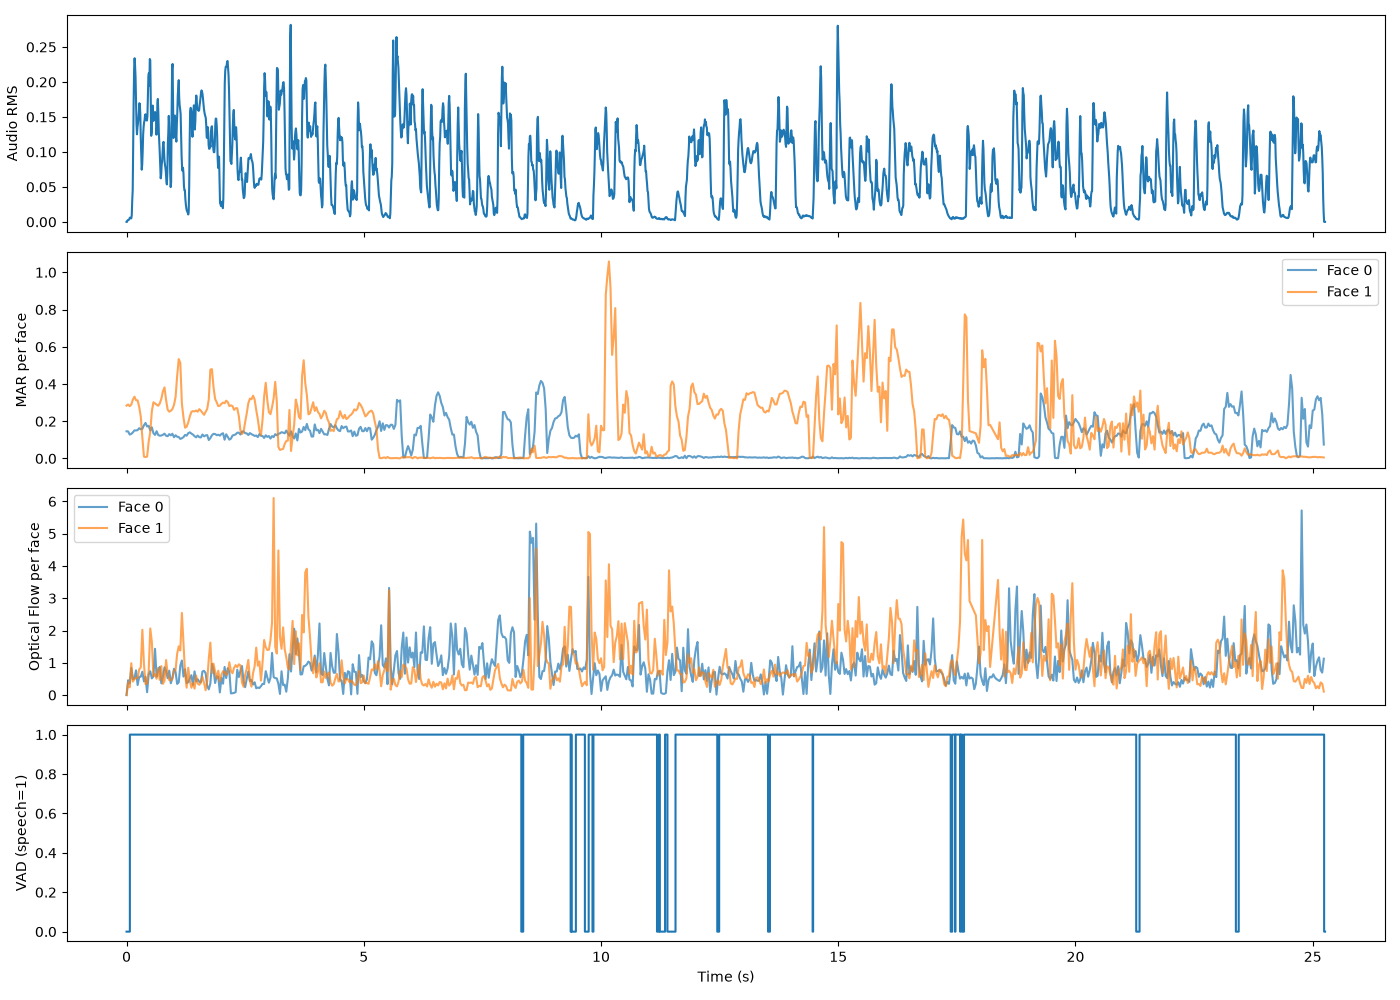
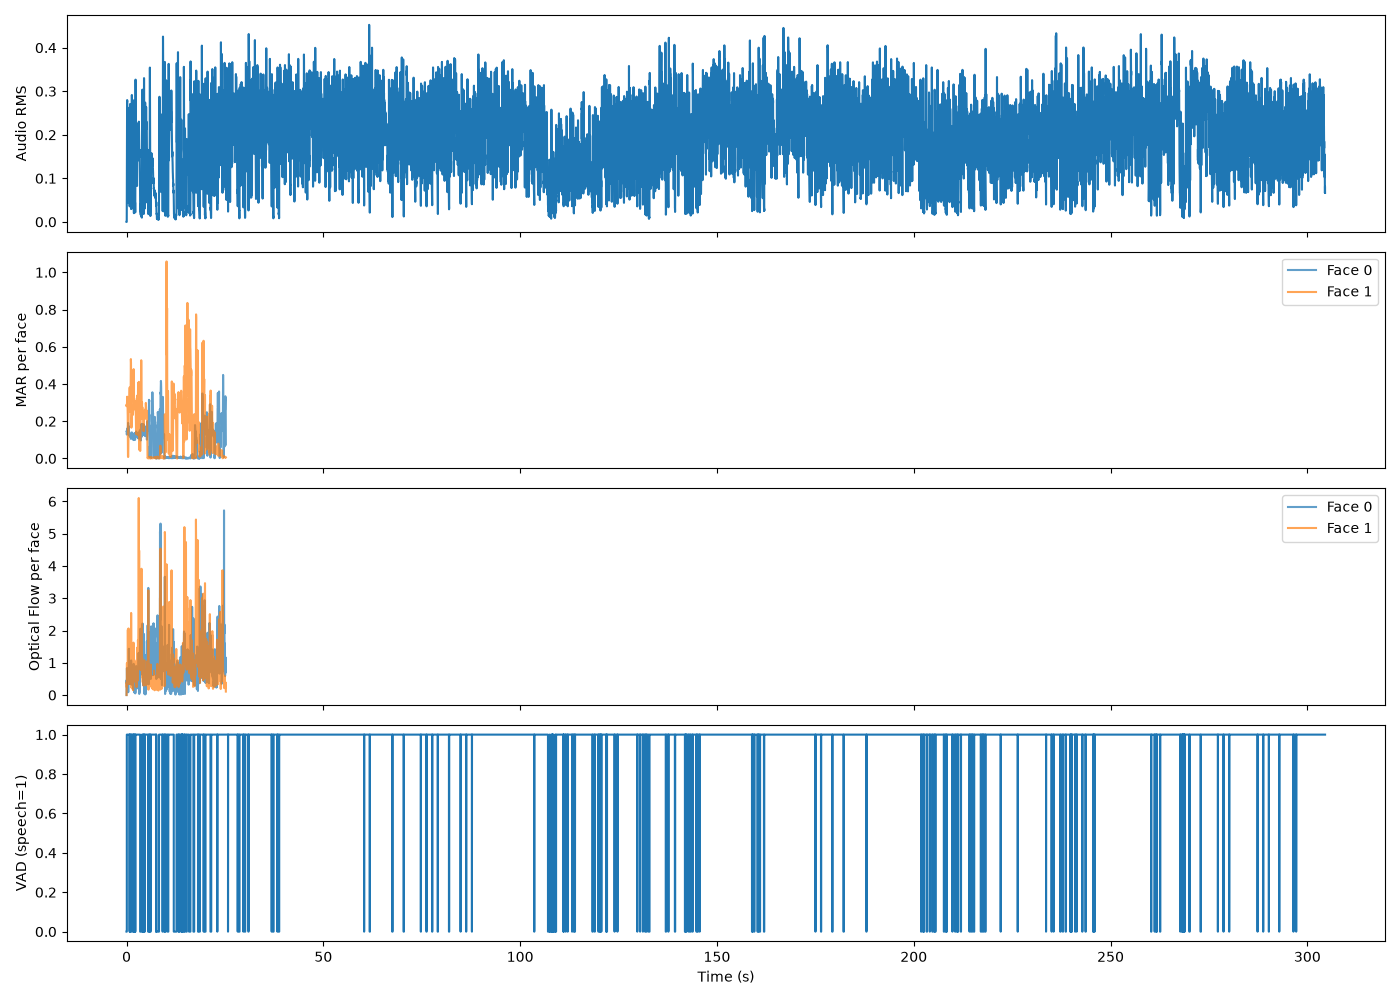
complete

diff --git a/main_talknet.py b/main_talknet.py
@@ -1,0 +1,97 @@
+import pickle
+import numpy as np
+import cv2
+import subprocess
+from src.video.zoom import SmoothZoom
+
+TALKNET_FPS = 25.0
+
+with open("TalkNet-ASD/demo/pranay_test/pywork/tracks.pckl", "rb") as f:
+    tracks = pickle.load(f)
+with open("TalkNet-ASD/demo/pranay_test/pywork/scores.pckl", "rb") as f:
+    scores = pickle.load(f)
+
+track_entries = []
+for track_id, (track, score_arr) in enumerate(zip(tracks, scores)):
+    frames = track["track"]["frame"]
+    bboxes = track["track"]["bbox"]
+    n = len(score_arr)
+    for i in range(n):
+        t = frames[i] / TALKNET_FPS
+        x1, y1, x2, y2 = bboxes[i]
+        track_entries.append({
+            "time": t,
+            "track_id": track_id,
+            "bbox": (int(x1), int(y1), int(x2 - x1), int(y2 - y1)),
+            "score": float(score_arr[i])
+        })
+
+track_entries.sort(key=lambda e: e["time"])
+entry_times = np.array([e["time"] for e in track_entries])
+
+def find_best_at_time(query_time, tolerance=1.0 / TALKNET_FPS):
+    idx = np.searchsorted(entry_times, query_time)
+    candidates = []
+    for offset in (-1, 0, 1):
+        j = idx + offset
+        if 0 <= j < len(track_entries):
+            e = track_entries[j]
+            if abs(e["time"] - query_time) <= tolerance:
+                candidates.append(e)
+    if not candidates:
+        return None
+    return max(candidates, key=lambda e: e["score"])
+
+cap = cv2.VideoCapture("data/videos/test.mp4")
+fps = cap.get(cv2.CAP_PROP_FPS)
+if fps <= 0:
+    fps = 30
+
+zoomer = SmoothZoom()
+out_writer = None
+frame_idx = 0
+frames_written = 0
+
+while True:
+    ret, frame = cap.read()
+    if not ret:
+        break
+
+    query_time = frame_idx / fps
+    best = find_best_at_time(query_time)
+
+    if best is not None:
+        zoomed = zoomer.get_crop(frame, best["bbox"])
+        if zoomed is not None:
+            frames_written += 1
+            if out_writer is None:
+                fourcc = cv2.VideoWriter_fourcc(*"mp4v")
+                out_writer = cv2.VideoWriter(
+                    "output_talknet.mp4", fourcc, fps, zoomer.output_size
+                )
+            out_writer.write(zoomed)
+            cv2.imshow("TalkNet Zoomed Output", zoomed)
+
+    key = cv2.waitKey(30) & 0xFF
+    if key == ord("q"):
+        break
+    frame_idx += 1
+
+cap.release()
+if out_writer is not None:
+    out_writer.release()
+cv2.destroyAllWindows()
+
+print(f"Total frames: {frame_idx}, frames written: {frames_written}")
+
+if out_writer is not None:
+    print("Muxing audio...")
+    subprocess.run(
+        [
+            "ffmpeg", "-y", "-i", "output_talknet.mp4", "-i", "data/videos/test.mp4",
+            "-c:v", "copy", "-map", "0:v:0", "-map", "1:a:0", "-shortest",
+            "output_talknet_with_audio.mp4"
+        ],
+        check=True, stdout=subprocess.DEVNULL, stderr=subprocess.DEVNULL
+    )
+    print("Saved output_talknet_with_audio.mp4")

diff --git a/track0.py b/track0.py
@@ -1,0 +1,19 @@
+import pickle
+import numpy as np
+
+with open("TalkNet-ASD/demo/pranay_test/pywork/tracks.pckl", "rb") as f:
+    tracks = pickle.load(f)
+
+with open("TalkNet-ASD/demo/pranay_test/pywork/scores.pckl", "rb") as f:
+    scores = pickle.load(f)
+
+for i, t in enumerate(tracks):
+    print(f"--- Track {i} ---")
+    print("proc_track keys:", t["proc_track"].keys() if isinstance(t["proc_track"], dict) else type(t["proc_track"]))
+    for k, v in t["proc_track"].items():
+        print(f"  {k}: type={type(v)}, len={len(v) if hasattr(v, '__len__') else 'n/a'}")
+    print("track keys:", t["track"].keys() if isinstance(t["track"], dict) else type(t["track"]))
+
+for i, s in enumerate(scores):
+    print(f"--- Score array {i} ---")
+    print(f"  len={len(s)}, min={s.min():.3f}, max={s.max():.3f}, mean={s.mean():.3f}")

diff --git a/Talkcheck.py b/Talkcheck.py
@@ -1,0 +1,17 @@
+import pickle
+
+with open("TalkNet-ASD/demo/pranay_test/pywork/tracks.pckl", "rb") as f:
+    tracks = pickle.load(f)
+
+with open("TalkNet-ASD/demo/pranay_test/pywork/scores.pckl", "rb") as f:
+    scores = pickle.load(f)
+
+print("=== tracks ===")
+print(type(tracks), len(tracks))
+print(type(tracks[0]))
+print(tracks[0] if not isinstance(tracks[0], dict) else list(tracks[0].keys()))
+
+print("=== scores ===")
+print(type(scores), len(scores))
+print(type(scores[0]))
+print(scores[0][:20] if hasattr(scores[0], '__len__') else scores[0])

diff --git a/sep_audio.py b/sep_audio.py
@@ -1,0 +1,14 @@
+from speechbrain.inference.separation import SepformerSeparation as separator
+import torchaudio
+
+model = separator.from_hparams(
+    source="speechbrain/sepformer-wsj02mix",
+    savedir="pretrained_models/sepformer-wsj02mix"
+)
+
+est_sources = model.separate_file(path="data/videos/test_audio_16k.wav")
+
+torchaudio.save("separated_source1.wav", est_sources[:, :, 0].detach().cpu(), 8000)
+torchaudio.save("separated_source2.wav", est_sources[:, :, 1].detach().cpu(), 8000)
+
+print("Saved separated_source1.wav and separated_source2.wav")

diff --git a/soundcheck.py b/soundcheck.py
@@ -1,0 +1,9 @@
+import soundfile as sf
+import numpy as np
+
+s1, _ = sf.read("separated_source1.wav")
+s2, _ = sf.read("separated_source2.wav")
+
+print("Are they exactly identical?", np.array_equal(s1, s2))
+print("Max absolute difference:", np.max(np.abs(s1 - s2)))
+print("Correlation:", np.corrcoef(s1, s2)[0, 1])